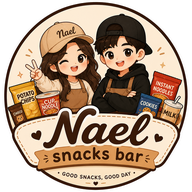
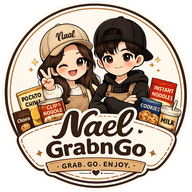
Add files via upload
Fix logo and name

diff --git a/index.html b/index.html
@@ -6,14 +6,14 @@
 <meta name="theme-color" content="#441d0b">
 <meta name="apple-mobile-web-app-capable" content="yes">
 <meta name="apple-mobile-web-app-status-bar-style" content="black-translucent">
-<meta name="apple-mobile-web-app-title" content="Nael">
+<meta name="apple-mobile-web-app-title" content="GrabnGo">
 <link rel="manifest" href="manifest.json">
 <link rel="icon" href="icon-192.png">
 <link rel="apple-touch-icon" href="apple-touch-icon.png">
 <link rel="preconnect" href="https://fonts.googleapis.com">
 <link rel="preconnect" href="https://fonts.gstatic.com" crossorigin>
 <link rel="stylesheet" href="https://fonts.googleapis.com/css2?family=Fredoka:wght@500;600;700&family=Nunito:wght@400;600;700;800&display=swap">
-<title>Nael Snacks Bar</title>
+<title>Nael GrabnGo</title>
 <style>
 :root{--bg:#fdf6ec;--card:#fffaf3;--ink:#3b1a0a;--mute:#8a6650;--line:#f0dcc0;--brand:#441d0b;--brand2:#a8693d;--accent:#dc9957;--tan:#ecbf8e;--soft:#f8e6cc;--onbrand:#fcebd4;--good:#3f7a2e;--goodbg:#e4f0d6;--warn:#a85d0c;--warnbg:#fde9c8;--bad:#b3261e;--badbg:#fbe0dc;--r:18px;--ring:rgba(168,105,61,.25)}
 @media (prefers-color-scheme:dark){:root{--bg:#1a100a;--card:#26170e;--ink:#fcebd4;--mute:#c4a58a;--line:#3e2a1c;--brand:#dc9957;--brand2:#a8693d;--soft:#3a2416;--onbrand:#2a1007;--goodbg:#1e3016;--warnbg:#3d2a0e;--badbg:#3e1712;--good:#9ccc7a;--warn:#f0b85c;--bad:#f28b82}}
@@ -103,7 +103,7 @@ h2{font-family:Nunito,sans-serif;font-weight:800}
 </style>
 </head>
 <body>
-<header><img src="logo.png" alt=""><h1><span id="title">Nael Snacks Bar</span><small>Good snacks, good day</small></h1><button class="pill" id="syncPill" data-act="syncNow">…</button></header>
+<header><img src="logo.png" alt=""><h1><span id="title">Nael GrabnGo</span><small>Grab. Go. Enjoy.</small></h1><button class="pill" id="syncPill" data-act="syncNow">…</button></header>
 <main id="view"></main>
 <nav id="tabs">
   <a href="#home" data-r="home"><span>🏠</span>Home</a>
@@ -245,7 +245,7 @@ function seedRows() {
     ['2026-08-17','tasik','Sales 17/8','Sales Deposit',35,B,'',''],
     ['2026-08-18','office','Sales 18/8','Sales Deposit',3,B,'','']
   ].map((r, i) => ({id:'old-' + (i+1), date:r[0], locationId:r[1], item:r[2], type:r[3], amount:r[4], paidUsing:r[5], paidBy:r[6], notes:r[7], visitId:'', deleted:false}));
-  const S = [{id:'businessName', value:'Nael Snacks Bar'}, {id:'people', value:'Lysa,Meo'}];
+  const S = [{id:'businessName', value:'Nael GrabnGo'}, {id:'people', value:'Lysa,Meo'}];
   return {Locations:L, Products:P, Money:M, Settings:S};
 }
 function loadSeedLocal() {
@@ -280,7 +280,7 @@ function saveMany(list) {
 
 const setting = (k, d) => { const r = data.Settings.find(s => s.id === k); return (r && r.value !== '') ? r.value : d; };
 const people = () => String(setting('people', 'Lysa,Meo')).split(',').map(s => s.trim()).filter(Boolean);
-const bizName = () => setting('businessName', 'Nael Snacks Bar');
+const bizName = () => setting('businessName', 'Nael GrabnGo');
 const me = () => cfg.me || people()[0] || '';
 const allLocs = () => data.Locations.filter(l => !l.deleted);
 const activeLocs = () => allLocs().filter(l => l.active !== false);
@@ -691,7 +691,7 @@ VIEWS.more = () => {
     <li><b>Pay partners back</b> with Reimbursement when the account has enough money.</li>
     <li><b>Watch the “paid %”</b> on Home. If a location drops below ~85%, move the box, add a clearer QR/price poster, or sell only higher-margin items there.</li>
   </ol></div>
-  <img class="foot-logo" src="logo.png" alt=""><p class="muted" style="text-align:center">Nael Snacks Bar app · v1.1</p>`;
+  <img class="foot-logo" src="logo.png" alt=""><p class="muted" style="text-align:center">Nael GrabnGo app · v1.1</p>`;
 };
 
 /* =================== ACTIONS =================== */
@@ -783,7 +783,7 @@ const ACT = {
     saveMany(ops); toast('Importing ' + ops.length + ' records…'); render();
   },
   saveBiz() {
-    const name = $('#sBiz').value.trim() || 'Nael Snacks Bar';
+    const name = $('#sBiz').value.trim() || 'Nael GrabnGo';
     const ppl = $('#sPeople').value.split(',').map(s => s.trim()).filter(Boolean).join(',');
     saveMany([['Settings', {id: 'businessName', value: name}], ['Settings', {id: 'people', value: ppl || 'Lysa,Meo'}]]);
     render(); toast('Saved ✓');

diff --git a/sw.js b/sw.js
@@ -1,6 +1,6 @@
 // Offline support: keeps the app working with no signal (e.g. at the lakeside).
 // Bump the version number whenever you change index.html so phones get the update.
-const CACHE = 'grabngo-v2';
+const CACHE = 'grabngo-v3';
 const FILES = ['./', './index.html', './manifest.json', './icon-192.png', './icon-512.png', './icon-maskable-512.png', './apple-touch-icon.png', './logo.png'];
 
 self.addEventListener('install', e => {
